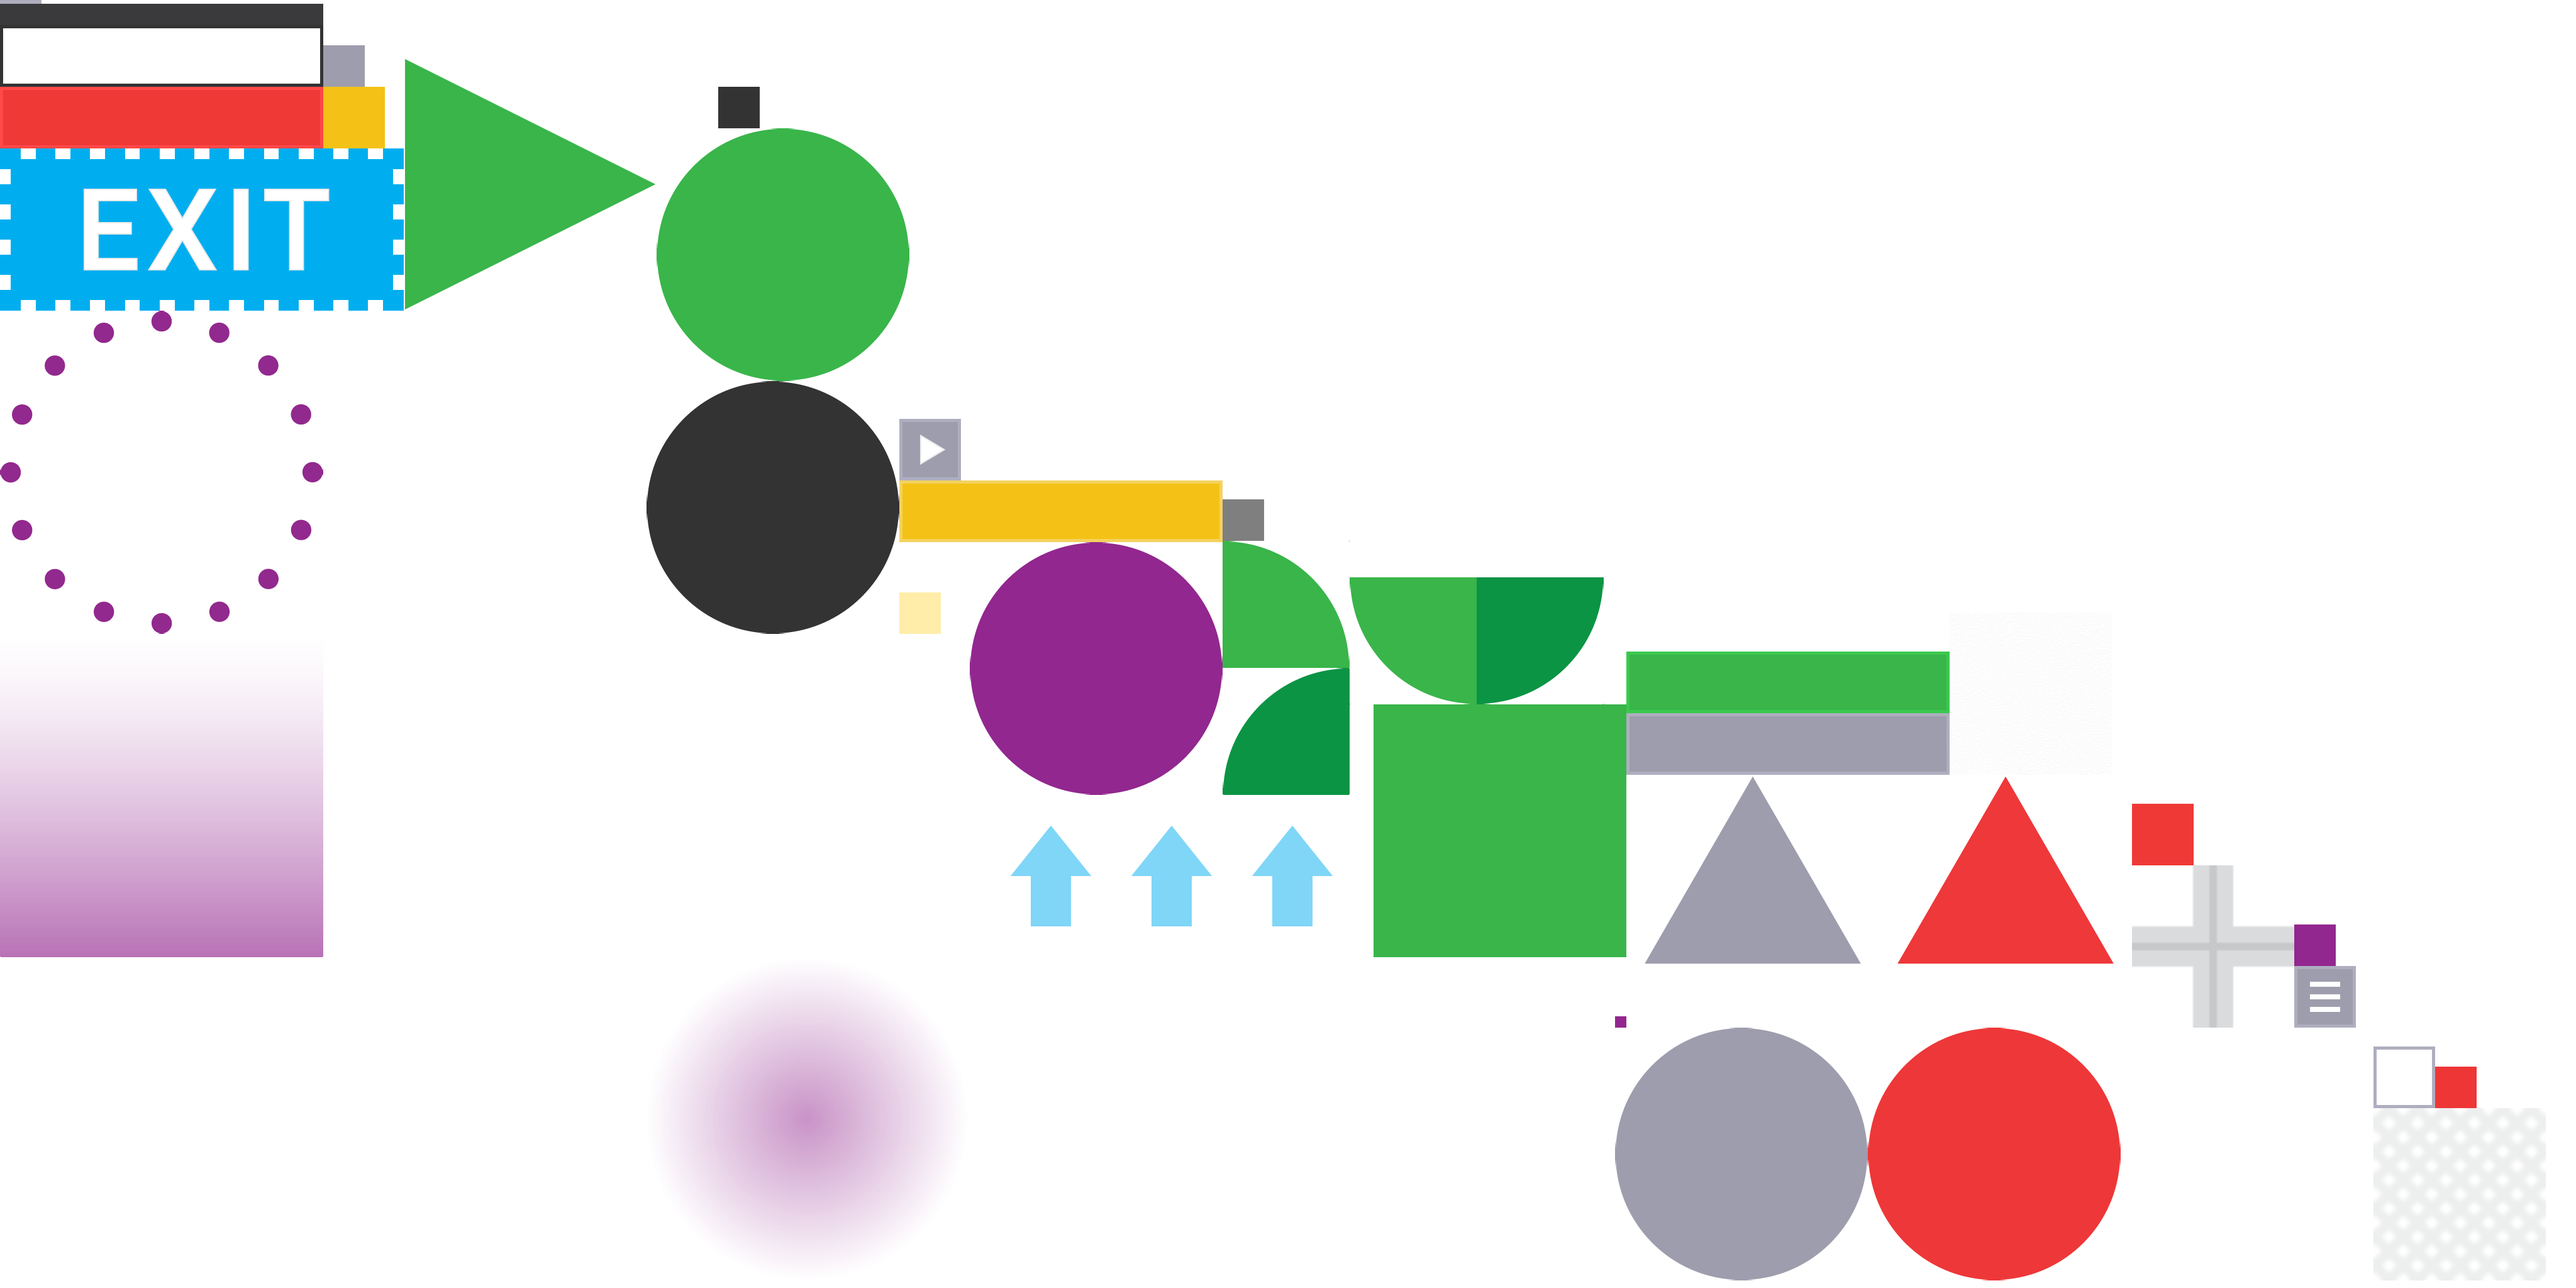
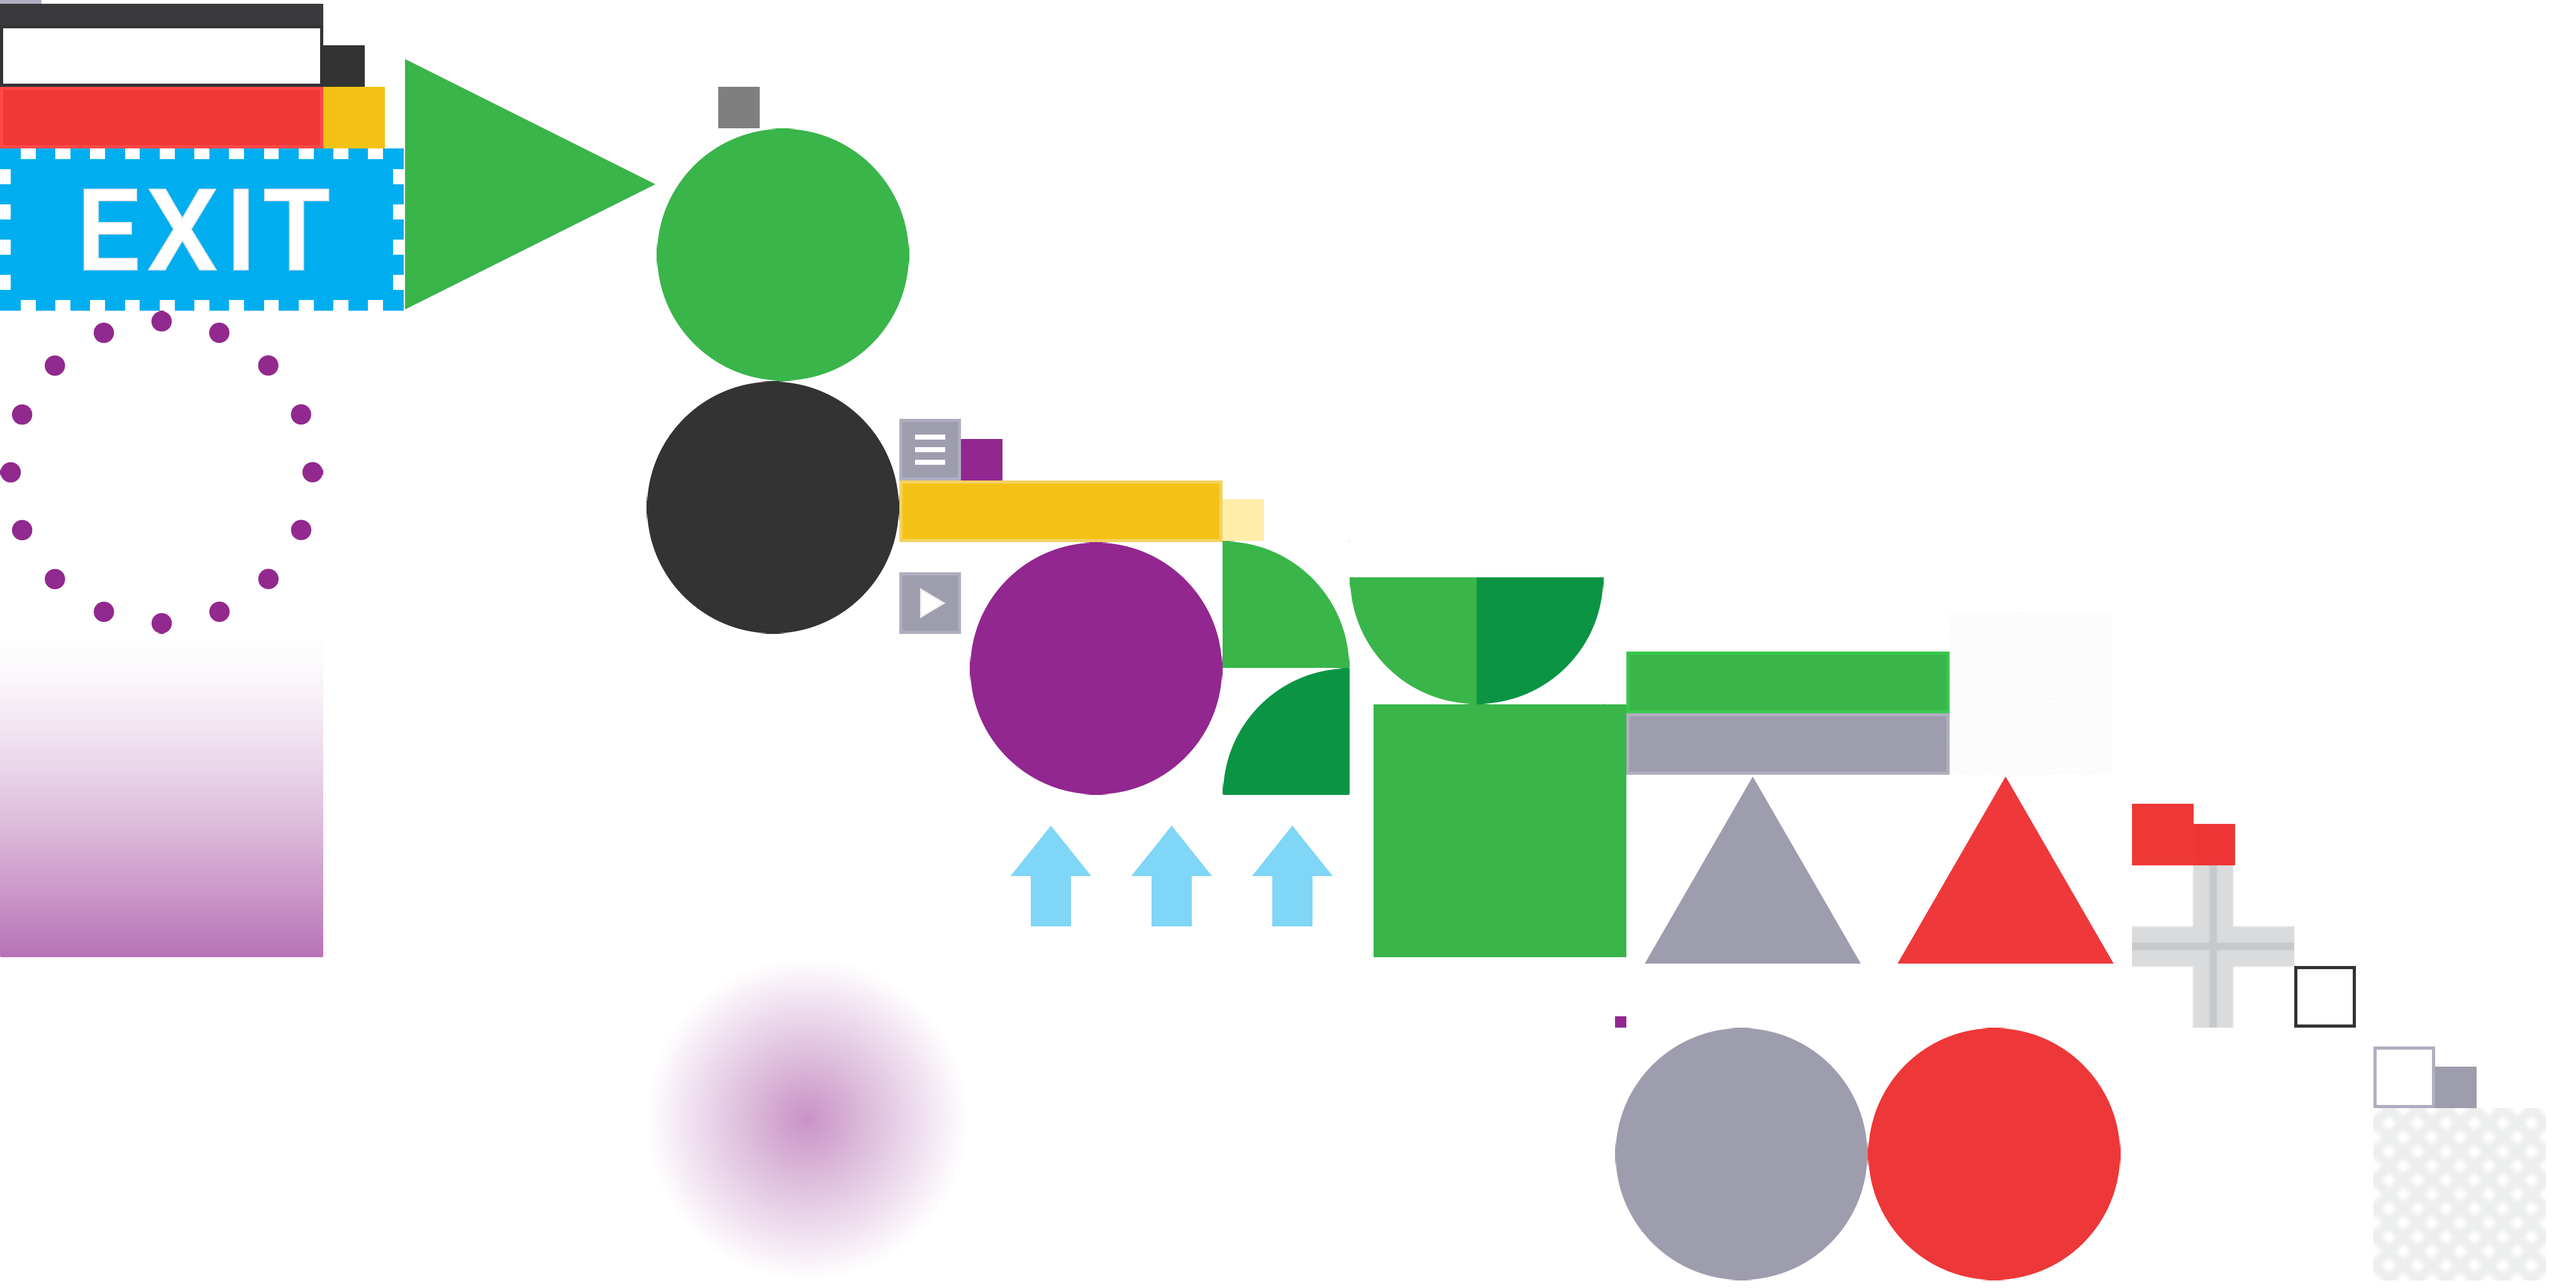
PauseButton clickEffect frame

diff --git a/core/src/com/jmolina/orb/widgets/game/PauseButton.java b/core/src/com/jmolina/orb/widgets/game/PauseButton.java
@@ -1,4 +1,4 @@
-package com.jmolina.orb.widgets.ui;
+package com.jmolina.orb.widgets.game;
 
 import com.jmolina.orb.managers.AssetManager;
 import com.badlogic.gdx.scenes.scene2d.ui.Image;
@@ -7,23 +7,31 @@ import com.jmolina.orb.utils.Utils;
 import com.jmolina.orb.var.Atlas;
 import com.jmolina.orb.widgets.BaseGroup;
 
+import static com.badlogic.gdx.scenes.scene2d.actions.Actions.alpha;
+
 public class PauseButton extends BaseGroup {
 
-    private Image image;
+    private Image image, frame;
     private TextureRegionDrawable pauseDrawable;
     private TextureRegionDrawable resumeDrawable;
-    private boolean paused;
 
     public PauseButton(AssetManager am) {
         super(am);
 
-        paused = false;
         pauseDrawable = new TextureRegionDrawable(findRegion(Atlas.HUD_BUTTON_PAUSE));
         resumeDrawable = new TextureRegionDrawable(findRegion(Atlas.HUD_BUTTON_RESUME));
         image = new Image(pauseDrawable);
         image.setPosition(0f, 0f);
 
+        frame = new Image(findRegion(Atlas.HUD_BUTTON_FRAME));
+        frame.setPosition(0, 0);
+        frame.addAction(alpha(0));
+        frame.act(0);
+
         addActor(image);
+        addActor(frame);
+
+        setFrame(frame);
 
         setTransform(false);
         setHeight(Utils.cell(1.5f));
@@ -31,12 +39,10 @@ public class PauseButton extends BaseGroup {
     }
 
     public void pause () {
-        paused = true;
         image.setDrawable(resumeDrawable);
     }
 
     public void resume () {
-        paused = false;
         image.setDrawable(pauseDrawable);
     }
 

diff --git a/core/src/com/jmolina/orb/stages/HUDStage.java b/core/src/com/jmolina/orb/stages/HUDStage.java
@@ -13,7 +13,7 @@ import com.jmolina.orb.utils.Utils;
 import com.jmolina.orb.widgets.game.Gauge;
 import com.jmolina.orb.widgets.game.HUDBackground;
 import com.jmolina.orb.widgets.game.Curtain;
-import com.jmolina.orb.widgets.ui.PauseButton;
+import com.jmolina.orb.widgets.game.PauseButton;
 import com.jmolina.orb.widgets.ui.PauseMenu;
 import com.jmolina.orb.widgets.game.Timer;
 
@@ -129,6 +129,7 @@ public class HUDStage extends Stage {
         toggleListener = new ClickListener(){
             @Override
             public void clicked(InputEvent event, float x, float y) {
+                pauseButton.clickEffect();
                 if (!getLevel().isLocked())
                     getLevel().pauseGame();
                 else

diff --git a/core/src/com/jmolina/orb/var/Atlas.java b/core/src/com/jmolina/orb/var/Atlas.java
@@ -42,6 +42,7 @@ public class Atlas {
     public static final String HUD_BACKGROUND_OVERLAY = "hud_background_overlay";
     public static final String HUD_BUTTON_PAUSE = "hud_button_pause";
     public static final String HUD_BUTTON_RESUME = "hud_button_resume";
+    public static final String HUD_BUTTON_FRAME = "hud_button_frame";
     public static final String HUD_GAUGE_BACKGROUND = "gauge_background";
     public static final String HUD_GAUGE_FRAME = "gauge_frame";
     public static final String HUD_GAUGE_BAR = "gauge_bar";

diff --git a/core/src/com/jmolina/orb/widgets/BaseGroup.java b/core/src/com/jmolina/orb/widgets/BaseGroup.java
@@ -54,7 +54,7 @@ public class BaseGroup extends Group {
      *
      * @param frame
      */
-    public void setFrame(Image frame) {
+    protected void setFrame(Image frame) {
         this.frame = frame;
     }
 

diff --git a/core/src/com/jmolina/orb/widgets/ui/MainButton.java b/core/src/com/jmolina/orb/widgets/ui/MainButton.java
@@ -72,6 +72,4 @@ public class MainButton extends BaseGroup {
         }
     }
 
-
-
 }
